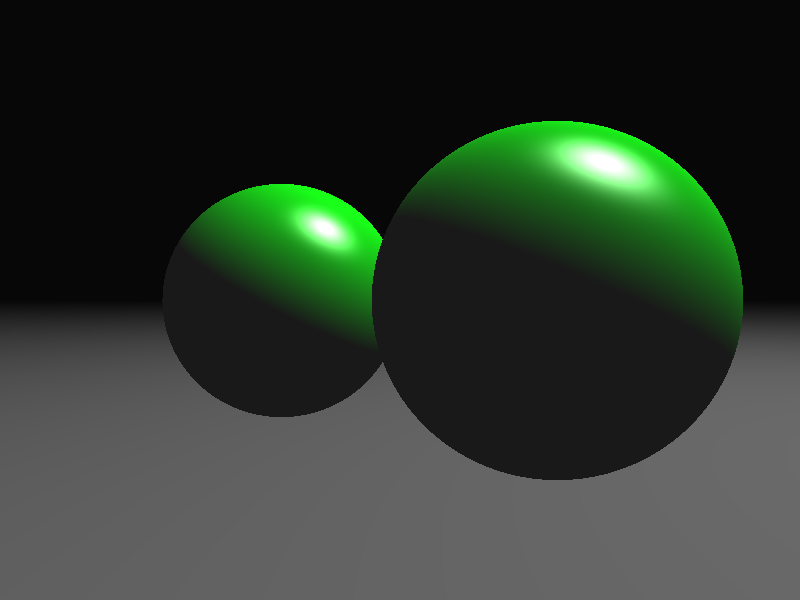
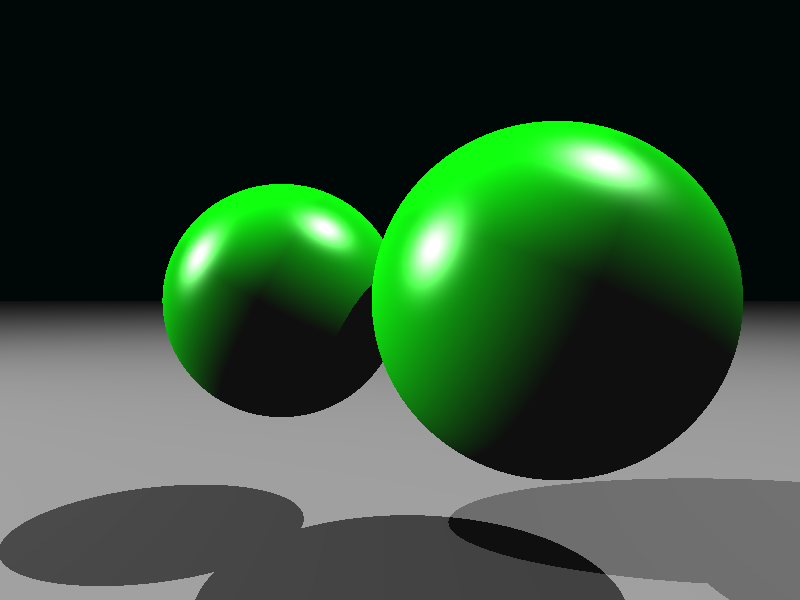
fixed shadows

diff --git a/src/main.rs b/src/main.rs
@@ -22,7 +22,7 @@ fn main() {
         600,
         70.0_f64.to_radians(),
         camera,
-        Color::new(0.03, 0.03, 0.03),
+        Color::new(0.00, 0.03, 0.03),
     );
 
     scene.add_object(
@@ -42,7 +42,7 @@ fn main() {
             Point3::new(-5.0, 0.0, 5.0),
             5.0,
             Phong::new(
-                Color::WHITE * 0.1,
+                Color::WHITE * 0.03,
                 Color::GREEN,
                 Color::WHITE,
                 20.0,
@@ -54,7 +54,7 @@ fn main() {
             Point3::new(5.0, 0.0, 0.0),
             6.0,
             Phong::new(
-                Color::WHITE * 0.1,
+                Color::WHITE * 0.03,
                 Color::GREEN,
                 Color::WHITE,
                 20.0,
@@ -69,12 +69,12 @@ fn main() {
             Color::WHITE,
             Color::WHITE,
         ),
-        //PointLight::new(
-            //Point3::new(-100.0, 50.0, 0.0),
-            //Color::WHITE,
-            //Color::WHITE,
-            //Color::WHITE,
-        //),
+        PointLight::new(
+            Point3::new(-100.0, 50.0, 0.0),
+            Color::WHITE,
+            Color::WHITE,
+            Color::WHITE,
+        ),
     ];
 
     lights.iter().for_each(|light| scene.add_light(*light));

diff --git a/src/scene.rs b/src/scene.rs
@@ -105,9 +105,11 @@ impl Scene {
 
                     let offset_position = position + EPSILON * normal;
                     let shadow_ray =
-                        Ray::new(&offset_position, (light.position - position).normalize());
+                        Ray::new(&offset_position, l);
 
-                    if self.closest_intersection(&shadow_ray).is_none()
+                    if self.closest_intersection(&shadow_ray).is_some() {
+                        return color;
+                    }
 
                     if l.dot(&n) > 0.0 {
                         color = color + kd * l.dot(&n) * id
